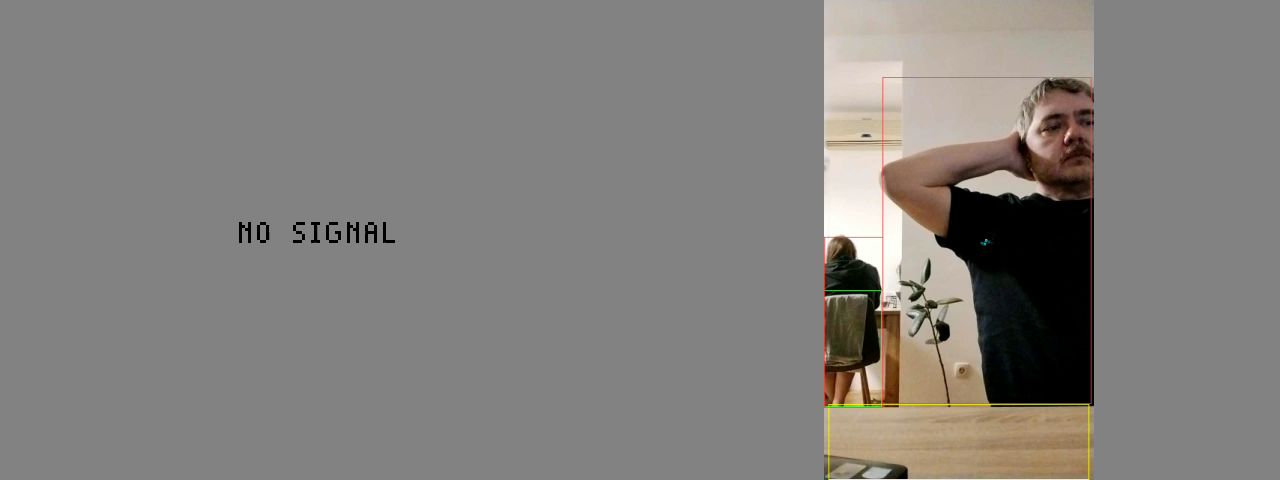
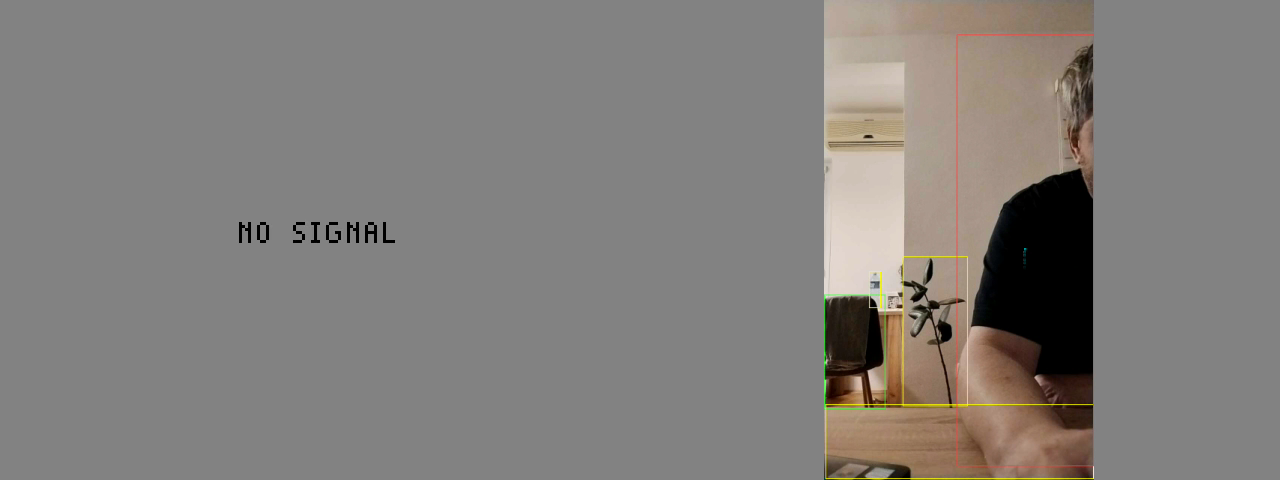
docs(light_ai): refine README captures, Mermaid layout, and portable paths

Changed region(s): [[0.625, 0.0, 0.875, 1.0]]

diff --git a/light_ai/README.md b/light_ai/README.md
@@ -28,19 +28,19 @@ Zero-copy hardware-accelerated object detection, Kalman tracking, and multi-came
 
 Sample output frames captured directly from the encoded H.264 preview stream on the RK3588 board (`yolov5s_relu_int8_mmse_v5.rknn`, `GpuBoxDrawer` + Kalman `Tracker` + `TrailWindow`):
 
-| Single Camera: Walking Detection & Trail (`640×480`) | Single Camera: Multi-Class + Smooth Trail (`640×480`) |
+| Single Camera: Live Person Detection (`640×480`) | Single Camera: Walking Detection & Green Trail (`640×480`) |
 |---|---|
-| ![Single camera walking person detection with tracking trail](docs/images/demo-single-walk.png) | ![Single camera person walking away with green trail and chair box](docs/images/demo-single-trail.png) |
-| **Dual Source `2×1`: Live Tracking (`1280×480`)** | **Dual Source `2×1`: Mixed V4L2 + Portrait HTTP MJPEG (`1280×480`)** |
-| ![Dual source side-by-side layout with person detection and cyan tracking trail](docs/images/demo-dual-track.png) | ![Dual source side-by-side landscape USB camera and portrait HTTP MJPEG stream](docs/images/demo-dual-mixed.png) |
-| **Dual Source `2×1`: `NO SIGNAL` Failover + Multi-Person (`1280×480`)** | **Multi-View `2×2` Grid: 3 Active Mixed-Aspect Streams (`1280×960`)** |
-| ![Dual source showing NO SIGNAL idle plate on disconnected slot and two people detected](docs/images/demo-dual-nosignal.png) | ![Four-tile 2x2 grid with three live cameras detecting people simultaneously](docs/images/demo-grid-multi.png) |
+| ![Single camera crisp front-facing person and potted plant detection](docs/images/demo-single-walk.png) | ![Single camera person walking away with smooth green trail and chair box](docs/images/demo-single-trail.png) |
+| **Dual Source `2×1`: Live Tracking + `NO SIGNAL` (`1280×480`)** | **Dual Source `2×1`: Mixed V4L2 + Portrait HTTP MJPEG (`1280×480`)** |
+| ![Dual source side-by-side layout with sharp person detection, cyan tracking trail, and NO SIGNAL plate](docs/images/demo-dual-track.png) | ![Dual source side-by-side landscape USB camera and portrait HTTP MJPEG stream](docs/images/demo-dual-mixed.png) |
+| **Dual Source `2×1`: `NO SIGNAL` Failover + Portrait Stream (`1280×480`)** | **Multi-View `2×2` Grid: 3 Active Mixed-Aspect Streams (`1280×960`)** |
+| ![Dual source showing NO SIGNAL idle plate on left slot and portrait person tracking on right slot](docs/images/demo-dual-nosignal.png) | ![Four-tile 2x2 grid with three live cameras detecting people simultaneously](docs/images/demo-grid-multi.png) |
 
 ---
 
 ## Quickstart
 
-On the CoolPi RK3588 board (physical NVMe checkout at `/mnt/nvme_data/linaro/Projects/light/light_ai`):
+Run from `light_ai/` inside your repository checkout on an RK3588 board *(on boards booting from eMMC with an external NVMe or USB SSD attached, keep the checkout on the external drive to avoid eMMC flash wear)*:
 
 ```bash
 # 1. Build + run host unit tests (49 suites) + TSan (4 suites) + 2-pass clang-tidy
@@ -66,16 +66,27 @@ ffplay -fflags nobuffer tcp://<board-ip>:1234
 ## Architecture & Pipeline
 
 ```mermaid
-flowchart LR
-    S["V4L2 USB (/dev/videoN)<br/>HTTP MJPEG (--net-src)"] --> SC["SourceSet / SourceChannel<br/>+ SourceProber"]
-    SC --> DEC["MppDecoder<br/>YUV422SP / YUV420SP (dma-buf)"]
-    DEC --> RGA1["RgaResizer (RGA3)<br/>Letterbox into NPU tensor fd"]
-    RGA1 --> POOL["InferencePool (--pool 1 | 3)<br/>RknnEngine + YoloDecoder"]
-    POOL --> TRK["BoxSmoother + Tracker<br/>(KalmanAxis, Associator, TrailWindow)"]
-    TRK --> OVL["OverlaySink<br/>GpuBoxDrawer (Mali EGL/GLES2) or CPU"]
-    OVL --> COMP["FrameComposer (RGA3)<br/>Crop band + RGB888->NV12<br/>1x1 / 2x1 / 2x2 canvas"]
-    COMP --> ENC["H264Encoder (h264_rkmpp)<br/>Zero-copy DRM_PRIME"]
-    ENC --> MUX["PacketQueue + MuxSession<br/>MPEG-TS TCP pull / UDP push"]
+flowchart TB
+    subgraph S1["1. Capture & Hardware Decode"]
+        direction LR
+        S["V4L2 USB (/dev/videoN)<br/>HTTP MJPEG (--net-src)"] --> SC["SourceSet / SourceChannel<br/>+ SourceProber"]
+        SC --> DEC["MppDecoder<br/>YUV422SP / YUV420SP (dma-buf)"]
+    end
+
+    subgraph S2["2. NPU Inference & Kalman Tracking"]
+        direction LR
+        RGA1["RgaResizer (RGA3)<br/>Letterbox into NPU tensor fd"] --> POOL["InferencePool (--pool 1 | 3)<br/>RknnEngine + YoloDecoder"]
+        POOL --> TRK["BoxSmoother + Tracker<br/>(KalmanAxis, Associator, TrailWindow)"]
+    end
+
+    subgraph S3["3. Viewer-Gated Overlay, Compose & Stream"]
+        direction LR
+        OVL["OverlaySink<br/>GpuBoxDrawer (Mali EGL) or CPU"] --> COMP["FrameComposer (RGA3)<br/>1x1 / 2x1 / 2x2 NV12 canvas"]
+        COMP --> ENC["H264Encoder (h264_rkmpp)<br/>PacketQueue + MuxSession (TS / UDP)"]
+    end
+
+    DEC --> RGA1
+    TRK --> OVL
 ```
 
 ### Key Architectural Invariants
@@ -183,10 +194,9 @@ Checks all translation units under `src/` and `tests/` (with [`tests/.clang-tidy
 1. **`main` pass:** system `clang-tidy-11` using [`.clang-tidy`](.clang-tidy) (all enabled checks).
 2. **`cognitive` pass:** pinned PyPI `clang-tidy==23.1.4` inside `light_ai/venv` using [`scripts/tidy_cognitive.yaml`](scripts/tidy_cognitive.yaml) (`readability-function-cognitive-complexity`, `Threshold: 20`).
 
-One-time venv setup on a fresh board:
+One-time venv setup from `light_ai/` on the target board:
 
 ```bash
-cd /mnt/nvme_data/linaro/Projects/light/light_ai
 python3 -m venv venv && venv/bin/pip install --no-cache-dir clang-tidy==23.1.4
 ```
 
@@ -195,7 +205,7 @@ python3 -m venv venv && venv/bin/pip install --no-cache-dir clang-tidy==23.1.4
 
 ### Storage Layout & Models
 
-- All build outputs, test binaries, tidy caches, logs, and calibration dumps stay inside `build/` or `dataset*/` (both git-ignored). [`scripts/storage_guard.sh`](scripts/storage_guard.sh) warns if build outputs target eMMC (`/dev/mmcblk*`) instead of NVMe (`/mnt/nvme_data`).
+- All build outputs, test binaries, tidy caches, logs, and calibration dumps stay inside `build/` or `dataset*/` (both git-ignored). On boards with internal eMMC, [`scripts/storage_guard.sh`](scripts/storage_guard.sh) emits a non-fatal warning if build outputs land on `/dev/mmcblk*` or `/` instead of external storage (such as NVMe or USB SSD) to avoid unnecessary flash wear.
 - **Models (`*.rknn`) are not tracked by Git:** place `.rknn` models in `./misc/` (default: `./misc/yolov5s_relu_int8_mmse_v5.rknn`), or specify `--model <path>`.
 - **RKNNLite Python wheel (for `scripts/` and `tools/`):** install from GitHub Releases (`rknn-toolkit-lite2-v2.5.0`) with SHA-256 verification via `./scripts/install_rknn.sh`.
 
@@ -242,7 +252,7 @@ sudo -n ./build/light_ai --device /dev/video20 --pool 3 --net --net-h264 --net-f
 # Hybrid multi-camera (USB + HTTP MJPEG) with custom bitrate
 sudo -n ./build/light_ai \
     --device /dev/video20 \
-    --net-src http://192.168.1.2:8080/video \
+    --net-src http://<stream-host>:8080/video \
     --pool 3 --net --net-h264 --net-fps 0 --net-bitrate 3000 --frames 3000
 
 # Viewers:
@@ -284,7 +294,7 @@ All **21 options** (plus `--help` / `-h`) are shared between the CLI parser and 
 
 - **Busy port resilience:** If TCP port `--net-port` is already in use, `retry_listen()` logs one warning and retries every `2 s` while recognition continues uninterrupted.
 - **Graceful shutdown:** `ProcessEnv` + `SignalWaiter` handle `SIGINT`/`SIGTERM` without globals during `Pipeline::run()`, draining the pool, printing `TOTAL` timings, flushing `h264_rkmpp`, and calling `STREAMOFF`.
-- **File ownership after `sudo`:** A `sudo` run creates `build/cal.ppm` / `dataset/` files owned by `root`; restore ownership with `sudo -n chown -R linaro: build dataset`.
+- **File ownership after `sudo`:** A `sudo` run creates `build/cal.ppm` / `dataset/` files owned by `root`; restore ownership with `sudo -n chown -R "$(id -un):" build dataset`.
 
 ---
 
@@ -294,7 +304,7 @@ All **21 options** (plus `--help` / `-h`) are shared between the CLI parser and 
 
 | Component | Version / Source | Purpose |
 |---|---|---|
-| Hardware / OS | CoolPi RK3588, Debian 11 (`aarch64`), GCC 10.2 / Clang 11 | Target SoC (Cortex-A76/A55, RKNPU2, RGA3, Mali G610) |
+| Hardware / OS | RK3588 (`aarch64` Linux), GCC 10+ / Clang 11+ | Target SoC (Cortex-A76/A55, RKNPU2, RGA3, Mali G610); verified on CoolPi RK3588 / Debian 11 |
 | `rockchip_mpp` | System `pkg-config` | Hardware MJPEG decode & H.264 encode (`h264_rkmpp`) |
 | `librga` | System `pkg-config` | Hardware resize, letterbox, RGB888→NV12, multi-view compose |
 | `rknnrt` | RKNPU2 `2.5.0` (`rknn_api.h`, `librknnrt.so`) | Zero-copy NPU inference |
@@ -333,7 +343,7 @@ All **21 options** (plus `--help` / `-h`) are shared between the CLI parser and 
   - [`scripts/build.sh`](scripts/build.sh) — full release build + unit/TSan tests + 2-pass clang-tidy gate.
   - [`scripts/test.sh`](scripts/test.sh) — host-side `light_ai_tests` + `light_ai_tests_tsan`.
   - [`scripts/tidy_run.sh`](scripts/tidy_run.sh), [`scripts/tidy_cache.py`](scripts/tidy_cache.py), [`scripts/tidy_cognitive.yaml`](scripts/tidy_cognitive.yaml) — 2-pass `clang-tidy` runner & cache.
-  - [`scripts/storage_guard.sh`](scripts/storage_guard.sh) — warns if build output lands on eMMC instead of NVMe.
+  - [`scripts/storage_guard.sh`](scripts/storage_guard.sh) — warns (non-fatally) if build output targets `/` or internal eMMC (`/dev/mmcblk*`) to help protect flash endurance on eMMC boards.
   - [`scripts/install_rknn.sh`](scripts/install_rknn.sh) — downloads & verifies `rknn_toolkit_lite2==2.5.0` wheel.
   - [`scripts/set_governors.sh`](scripts/set_governors.sh) — pins CPU/NPU/DDR governors to `performance` (`sudo`).
   - [`scripts/usb_replug.sh`](scripts/usb_replug.sh) — sysfs USB camera power-cycle helper (installed at `/usr/local/sbin/light-usb-replug`).

diff --git a/light_ai/docs/viewer.md b/light_ai/docs/viewer.md
@@ -8,7 +8,7 @@ For general server-side stream options (`--net`, `--net-h264`, `--net-port`, `--
 
 - **Client hardware:** Intel Core 2 Duo T9550, ATI Mobility Radeon HD 3400 (legacy driver `8.970.100.0`, 2013-04-24 — final release for this series), DirectX 10.1 (exposes D3D11 feature level `10_1`), UVD2 H.264 decode via DXVA2, OpenGL without `WGL_NV_DX_interop`.
 - **Player:** Windows 64-bit `mpv` 0.41 (`mpv.com` console host; `mpv.exe` prints no console logs).
-- **Stream:** H.264/MPEG-TS over TCP pull (`tcp://192.168.1.10:1234`, confirmed by demuxer `"Found 'mpegts' at score=100"`), canonical `640x480` single-view band (`1280x960` source).
+- **Stream:** H.264/MPEG-TS over TCP pull (`tcp://<board-ip>:1234`, confirmed by demuxer `"Found 'mpegts' at score=100"`), canonical `640x480` single-view band (`1280x960` source).
 - **Cadence note:** `--net-fps` defaults to `25` (`0` = VFR follow-source), whereas USB camera pacing is a discrete firmware state `{20, 25, 30}` FPS — minor cadence differences reflect camera pacing, not a player defect.
 
 ## Recommended Launch (Product Path: Software Decode + `gpu-next`/D3D11)
@@ -21,7 +21,7 @@ No `%APPDATA%\mpv\mpv.conf` is required; pass all flags on the command line.
 @echo off
 :loop
 echo %date% %time% >> C:\mpv64\restarts.log
-mpv.com --cache=no --profile=low-latency --network-timeout=5 tcp://192.168.1.10:1234
+mpv.com --cache=no --profile=low-latency --network-timeout=5 tcp://<board-ip>:1234
 timeout /t 1 >nul
 goto loop
 ```
@@ -29,13 +29,13 @@ goto loop
 **One-shot from PowerShell:**
 
 ```powershell
-mpv.com --cache=no --profile=low-latency --network-timeout=5 tcp://192.168.1.10:1234
+mpv.com --cache=no --profile=low-latency --network-timeout=5 tcp://<board-ip>:1234
 ```
 
 **Fallback (CPU unload via `dxva2-copy` at higher latency):**
 
 ```powershell
-mpv.com --vo=gpu --gpu-api=opengl --gpu-context=win --hwdec=dxva2-copy --profile=low-latency --network-timeout=5 --opengl-swapinterval=0 tcp://192.168.1.10:1234
+mpv.com --vo=gpu --gpu-api=opengl --gpu-context=win --hwdec=dxva2-copy --profile=low-latency --network-timeout=5 --opengl-swapinterval=0 tcp://<board-ip>:1234
 ```
 
 ### Option Rationale
@@ -58,7 +58,7 @@ mpv.com --vo=gpu --gpu-api=opengl --gpu-context=win --hwdec=dxva2-copy --profile
 Cross-check player:
 
 ```bash
-ffplay -fflags nobuffer -rtbufsize 100k tcp://192.168.1.10:1234
+ffplay -fflags nobuffer -rtbufsize 100k tcp://<board-ip>:1234
 ```
 
 ## Established A/B Facts (2026-10-31 / 2026-11-01)
@@ -78,22 +78,22 @@ ffplay -fflags nobuffer -rtbufsize 100k tcp://192.168.1.10:1234
 
 ```powershell
 # Check board TCP port reachability
-Test-NetConnection 192.168.1.10 -Port 1234
+Test-NetConnection <board-ip> -Port 1234
 
 # Create log directory (mpv does not create it automatically)
 New-Item -ItemType Directory -Force C:\mpv64
 
 # Decode + network only (no video output)
-mpv.com --vo=null --profile=low-latency tcp://192.168.1.10:1234
+mpv.com --vo=null --profile=low-latency tcp://<board-ip>:1234
 
 # Software GDI fallback (no GPU)
-mpv.com --vo=gdi --profile=low-latency tcp://192.168.1.10:1234
+mpv.com --vo=gdi --profile=low-latency tcp://<board-ip>:1234
 
 # Measure startup timing ("playback restart complete" in log)
-mpv.com --vo=null --frames=30 --profile=low-latency --log-file=C:\mpv64\log.txt tcp://192.168.1.10:1234
+mpv.com --vo=null --frames=30 --profile=low-latency --log-file=C:\mpv64\log.txt tcp://<board-ip>:1234
 
 # Verify option acceptance (empty output = accepted)
-mpv.com -v --frames=1 --log-file=C:\mpv64\opt.log tcp://192.168.1.10:1234
+mpv.com -v --frames=1 --log-file=C:\mpv64\opt.log tcp://<board-ip>:1234
 Select-String -Path C:\mpv64\opt.log -Pattern "Could not set"
 
 # Check GPU and driver version
